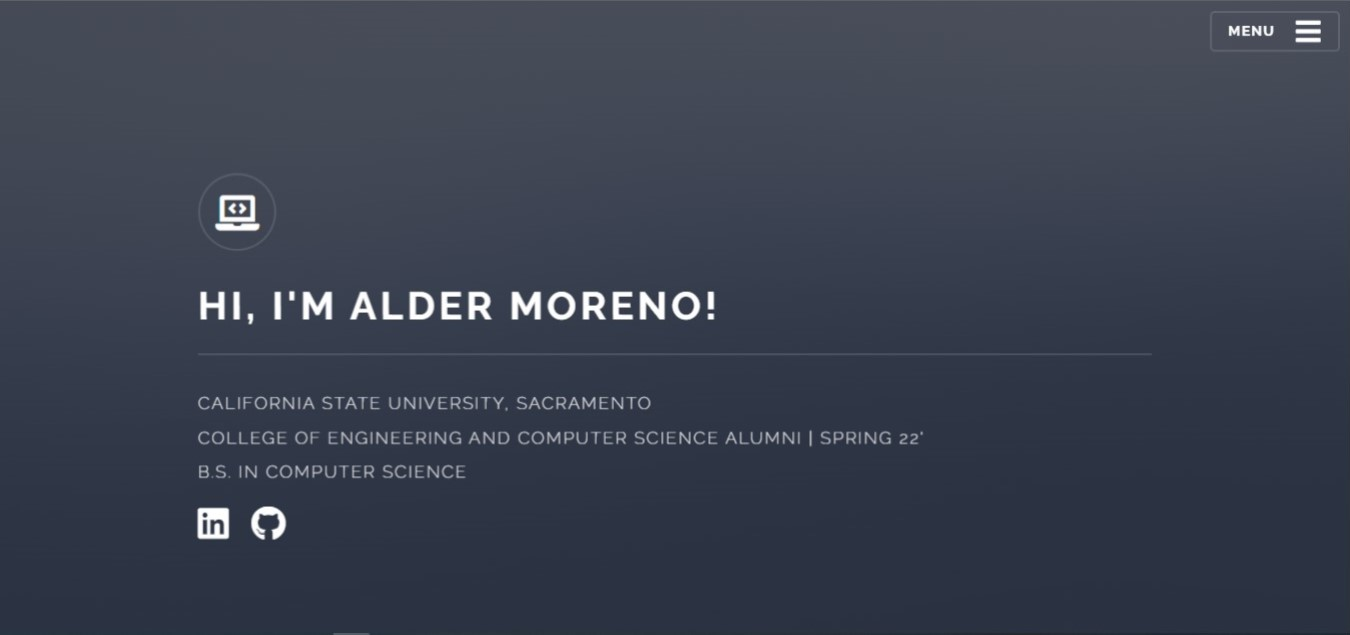
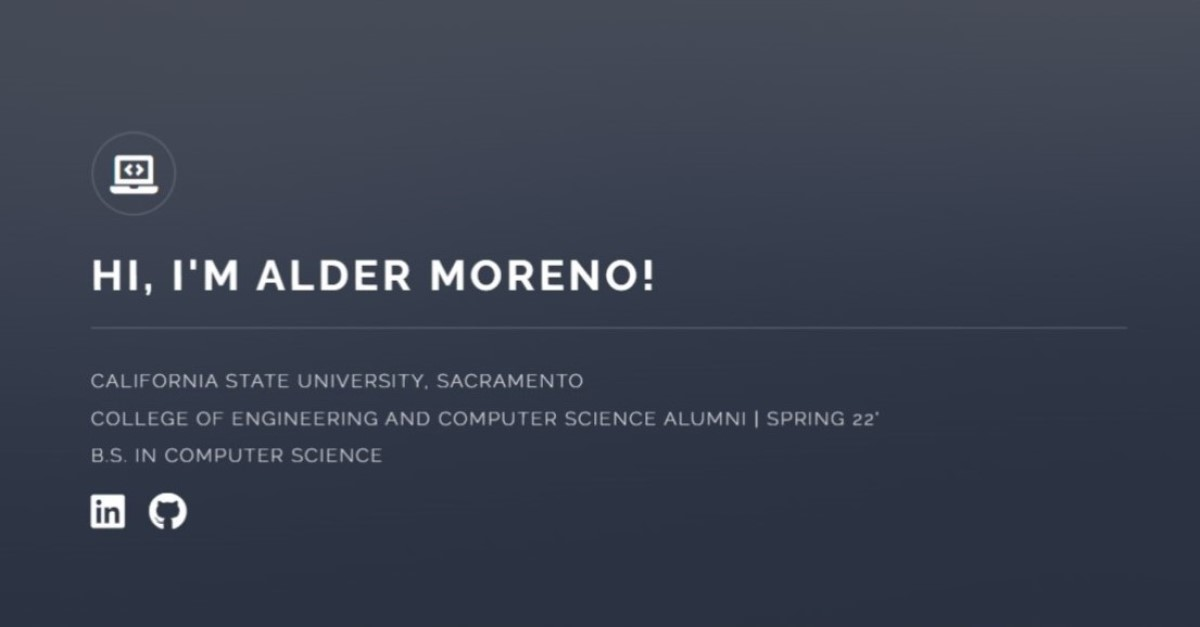
thumbnail fix

diff --git a/index.html b/index.html
@@ -11,11 +11,11 @@
 		<meta charset="utf-8" />
 		<meta name="viewport" content="width=device-width, initial-scale=1, user-scalable=no" />
 		<meta property='og:title' content='AMPortfolio'/>
-		<meta property='og:image' content='https://i.ibb.co/3FCn8Rs/thumbnail.jpg'/>
+		<meta property='og:image' content='https://i.ibb.co/GFzfbTb/thumbnail.jpg'/>
 		<meta property='og:description' content="Alder's Portfolio"/>
 		<meta property='og:url' content='https://aldermoreno.com'/>
-		<meta property='og:image:width' content='1351' />
-		<meta property='og:image:height' content='638' />
+		<meta property='og:image:width' content='1200' />
+		<meta property='og:image:height' content='627' />
 		<link rel="stylesheet" href="assets/css/main.css" />
 		<noscript><link rel="stylesheet" href="assets/css/noscript.css" /></noscript>
 	</head>
